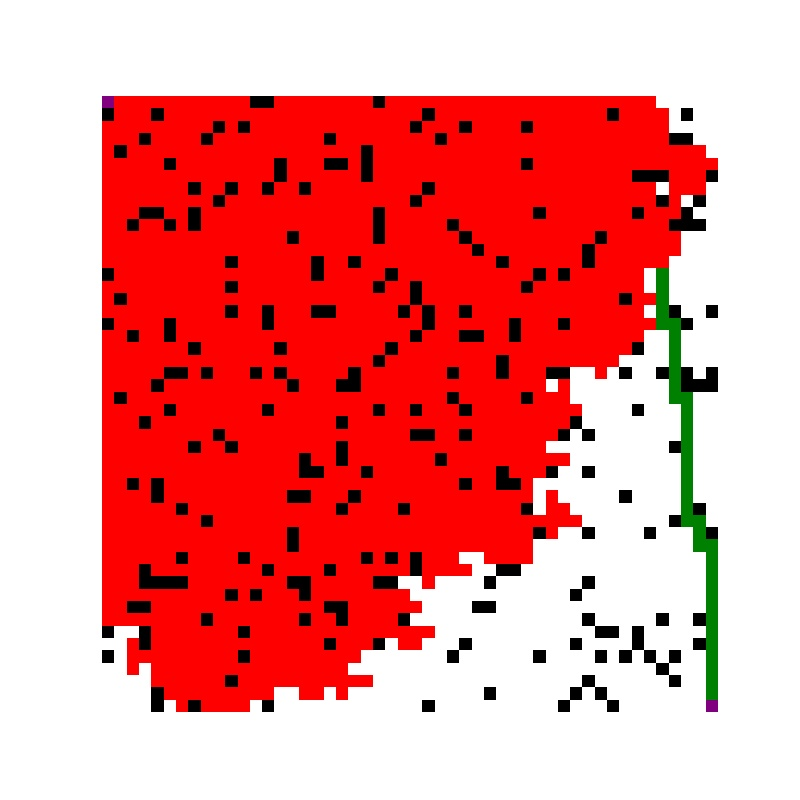
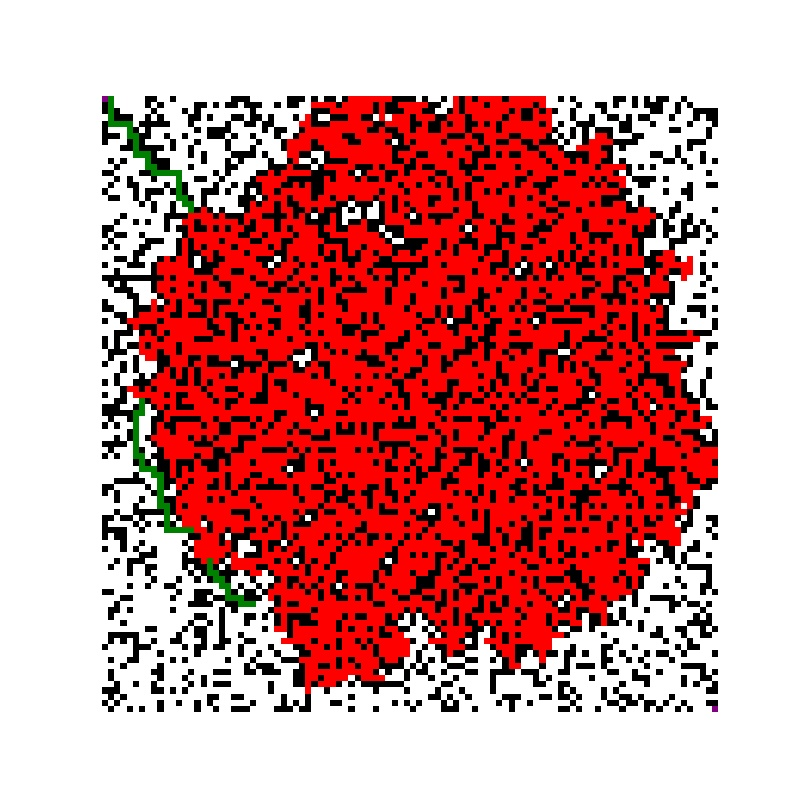
strategy 3 (some progress)

diff --git a/fire.py b/fire.py
@@ -114,31 +114,71 @@ def strategy_two(maze, fire, start, goal, q):
         temp_start = (curX, curY)
 
         fire_maze = advance_fire_one_step(fire_maze, q)
-        print (fire_maze)
+        #print (fire_maze)
         temp_maze = reset_path(fire_maze, dimension) # avoid backtracking unless necessary
 
     print('Escaped')
     return fire_maze
 
 def strategy_three (maze, fire, start, goal, q):
-    fire_maze = np.copy(maze)
+    fire_maze = np.copy(fire)
     dimensions = maze.shape[0]
     probability_maze = init_probability_maze(fire_maze, dimensions)
 
     curX = 0
     curY = 0
+    temp_start = (curX, curY)
+    temp_maze = np.copy(fire_maze)
+
+    status, traversal_path, num_explored_nodes = bfs(temp_maze, temp_start, goal)
+
+    if status == 'No Solution':
+        print('No path possible')
+        return fire_maze
 
 
 
     while fire_maze[curX][curY] != 4:
         if fire_maze[curX][curY] == 7:
             print('Died')
+            print(str(curX) + ', ' + str(curY))
             return fire_maze
         
+        oldX = curX
+        oldY = curY
 
-
+        if curX + 1 < dimensions and (traversal_path[curX + 1][curY] == 6 or traversal_path[curX + 1][curY] == 4):
+            curX = curX + 1
+        elif curY + 1 < dimensions and (traversal_path[curX][curY + 1] == 6 or traversal_path[curX][curY + 1] == 4):
+            curY = curY + 1
+        elif curX - 1 >= 0 and (traversal_path[curX - 1][curY] == 6 or traversal_path[curX - 1][curY] == 4):
+            curX = curX - 1
+        elif curY - 1 >= 0 and (traversal_path[curX][curY - 1 ] == 6 or traversal_path[curX][curY - 1] == 4):
+            curY = curY - 1
+        
+        if fire_maze[curX][curY] == 4:
+            break
 
         probability_maze = calculate_fire_probability(probability_maze, fire_maze, dimensions, q)
+
+        if random() <= (1 - probability_maze[curX][curY]): # probability that the cell will not be on fire
+            fire_maze[curX][curY] = 6
+            fire_maze = advance_fire_one_step(fire_maze, q)
+            print(fire_maze)
+            print('continue')
+            continue
+        else:
+            temp_start = (oldX, oldY)
+            fire_maze[curX][curY] = 8 # avoided because of fire prediction
+            curX, curY = oldX, oldY
+            temp_maze = reset_path(fire_maze, dimensions)
+            status, traversal_path, num_explored_nodes = bfs(temp_maze, temp_start, goal)
+
+            if status == 'No Solution':
+                print('No path possible')
+                return fire_maze
+            print('find new path')
+            print(fire_maze)
 
     print('Escaped')
     return fire_maze
@@ -157,7 +197,7 @@ def calculate_fire_probability(probability_maze, fire_maze, dimensions, q):
     for x in range(0, dimensions):
         for y in range(0, dimensions):
             if fire_maze[x][y] == 7:
-                probability_maze[x][y] = 1
+                maze_copy[x][y] = 1
 
             if(fire_maze[x][y] != 1 or fire_maze[x][y] != 3 or fire_maze[x][y] != 4 ):
                 k = 0
@@ -174,8 +214,8 @@ def calculate_fire_probability(probability_maze, fire_maze, dimensions, q):
                     if fire_maze[x][y + 1] == 7:
                         k += 1
                 prob = 1 - (1 - q) ** k
-                probability_maze[x][y] = prob
-    return probability_maze
+                maze_copy[x][y] = prob
+    return maze_copy
 
 def reset_path(maze, dimension):
     temp_maze = np.copy(maze)

diff --git a/bfs.py b/bfs.py
@@ -30,19 +30,19 @@ def bfs(maze, start, goal):
         if maze_copy[curX][curY] == 5:
             continue
 
-        if curX + 1 < dimension and maze[curX + 1][curY] != 1 and maze_copy[curX + 1][curY] != 5 and maze_copy[curX + 1][curY] != 7:
+        if curX + 1 < dimension and maze[curX + 1][curY] != 1 and maze_copy[curX + 1][curY] != 5 and maze_copy[curX + 1][curY] != 7 and maze_copy[curX + 1][curY] != 8:
             fringe.append((curX + 1, curY))
             prev[(curX + 1, curY)] = current
         
-        if curY + 1 < dimension and maze[curX][curY + 1] != 1 and maze_copy[curX][curY + 1] != 5 and maze_copy[curX][curY + 1] != 7:
+        if curY + 1 < dimension and maze[curX][curY + 1] != 1 and maze_copy[curX][curY + 1] != 5 and maze_copy[curX][curY + 1] != 7 and maze_copy[curX][curY + 1] != 8:
             fringe.append((curX, curY + 1))
             prev[(curX, curY + 1)] = current
 
-        if curX - 1 >= 0 and maze[curX - 1][curY] != 1 and maze_copy[curX - 1][curY] != 5 and maze_copy[curX - 1][curY] != 7:
+        if curX - 1 >= 0 and maze[curX - 1][curY] != 1 and maze_copy[curX - 1][curY] != 5 and maze_copy[curX - 1][curY] != 7 and maze_copy[curX - 1][curY] != 8 :
             fringe.append((curX - 1, curY))
             prev[(curX - 1, curY)] = current
 
-        if curY - 1 >= 0 and maze[curX][curY - 1] != 1 and maze_copy[curX][curY - 1] != 5 and maze_copy[curX][curY - 1] != 7:
+        if curY - 1 >= 0 and maze[curX][curY - 1] != 1 and maze_copy[curX][curY - 1] != 5 and maze_copy[curX][curY - 1] != 7 and maze_copy[curX][curY - 1] != 8 :
             fringe.append((curX, curY - 1))
             prev[(curX, curY - 1)] = current
 

diff --git a/main.py b/main.py
@@ -10,8 +10,8 @@ from astar import *
 from fire import *
 
 ## white: free, black: wall, purple: start/goal, green: optimal path, blue: all visited, red: fire
-color_set = ['white', 'black', 'purple', 'blue', 'green', 'red']
-range_set = np.array([-0.5, 0.5, 2.5, 4.5, 5.5, 6.5, 7.5])
+color_set = ['white', 'black', 'purple', 'blue', 'green', 'red', 'pink']
+range_set = np.array([-0.5, 0.5, 2.5, 4.5, 5.5, 6.5, 7.5, 8.5])
 
 def main():
     test_fire_strategies()
@@ -32,14 +32,20 @@ def test_fire_strategies():
     print(maze)
     print(fire_maze)
     #fire_result = strategy_one(maze, fire_maze, (0, 0), (dimension - 1, dimension - 1), 0.3)
-    fire_result2 =  strategy_two(maze, fire_maze, (0,0), (dimension - 1, dimension - 1), 0.3)
+    #fire_result2 =  strategy_two(maze, fire_maze, (0,0), (dimension - 1, dimension - 1), 0.3)
+    fire_result3 =  strategy_three(maze, fire_maze, (0,0), (dimension - 1, dimension - 1), 0.2)
 
 
     #plt.imshow(fire_result, cmap = cmap, norm = norm)
     #plt.savefig('fire_strat1.jpg')
 
-    plt.imshow(fire_result2, cmap = cmap, norm = norm)
-    plt.savefig('fire_strat2.jpg')
+    #plt.imshow(fire_result2, cmap = cmap, norm = norm)
+    #plt.savefig('fire_strat2.jpg')
+
+    plt.imshow(fire_result3, cmap = cmap, norm = norm)
+    plt.savefig('fire_strat3.jpg')
+
+
 
 def test_path_algorithms():
     dimension = int(sys.argv[1])
